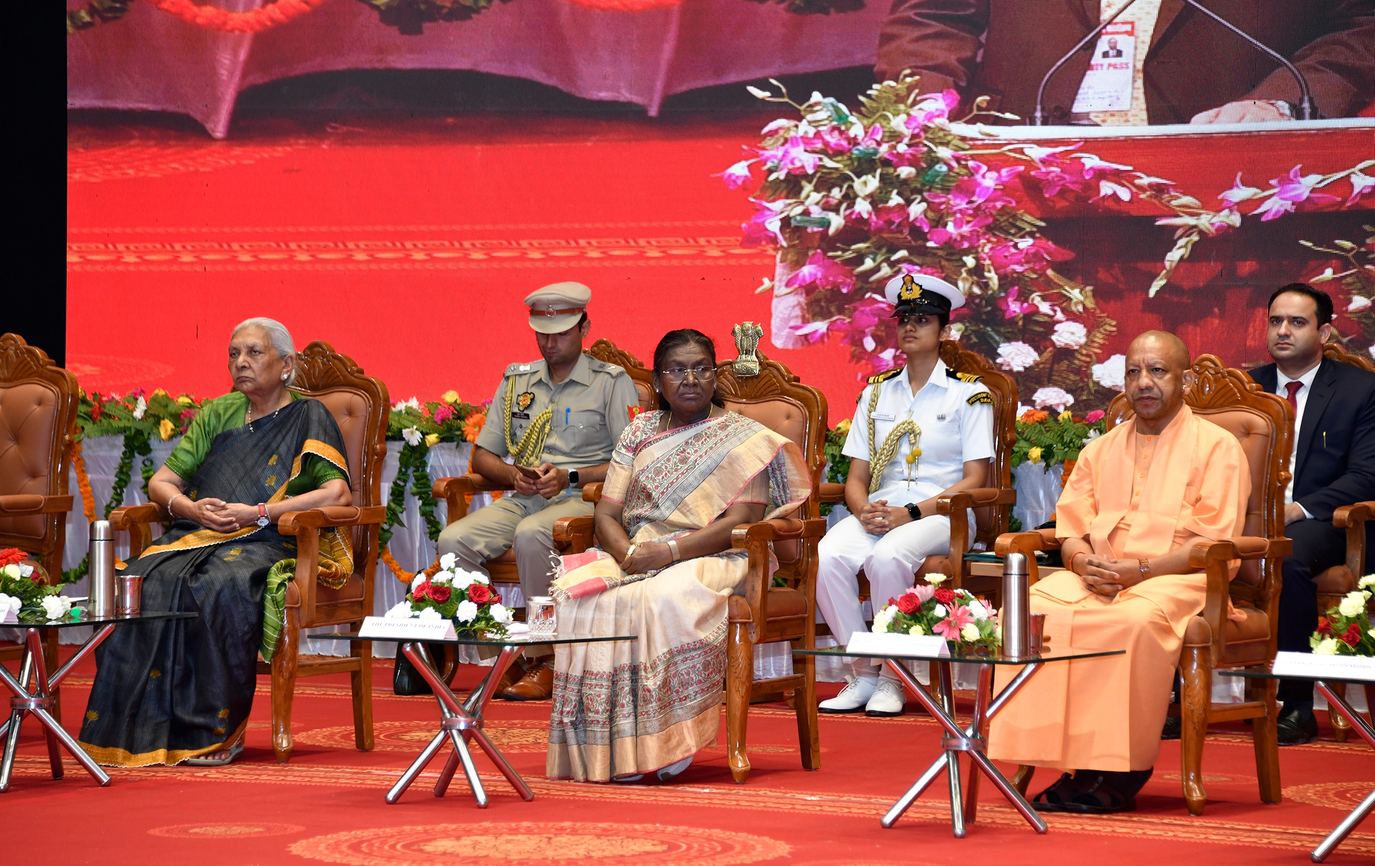
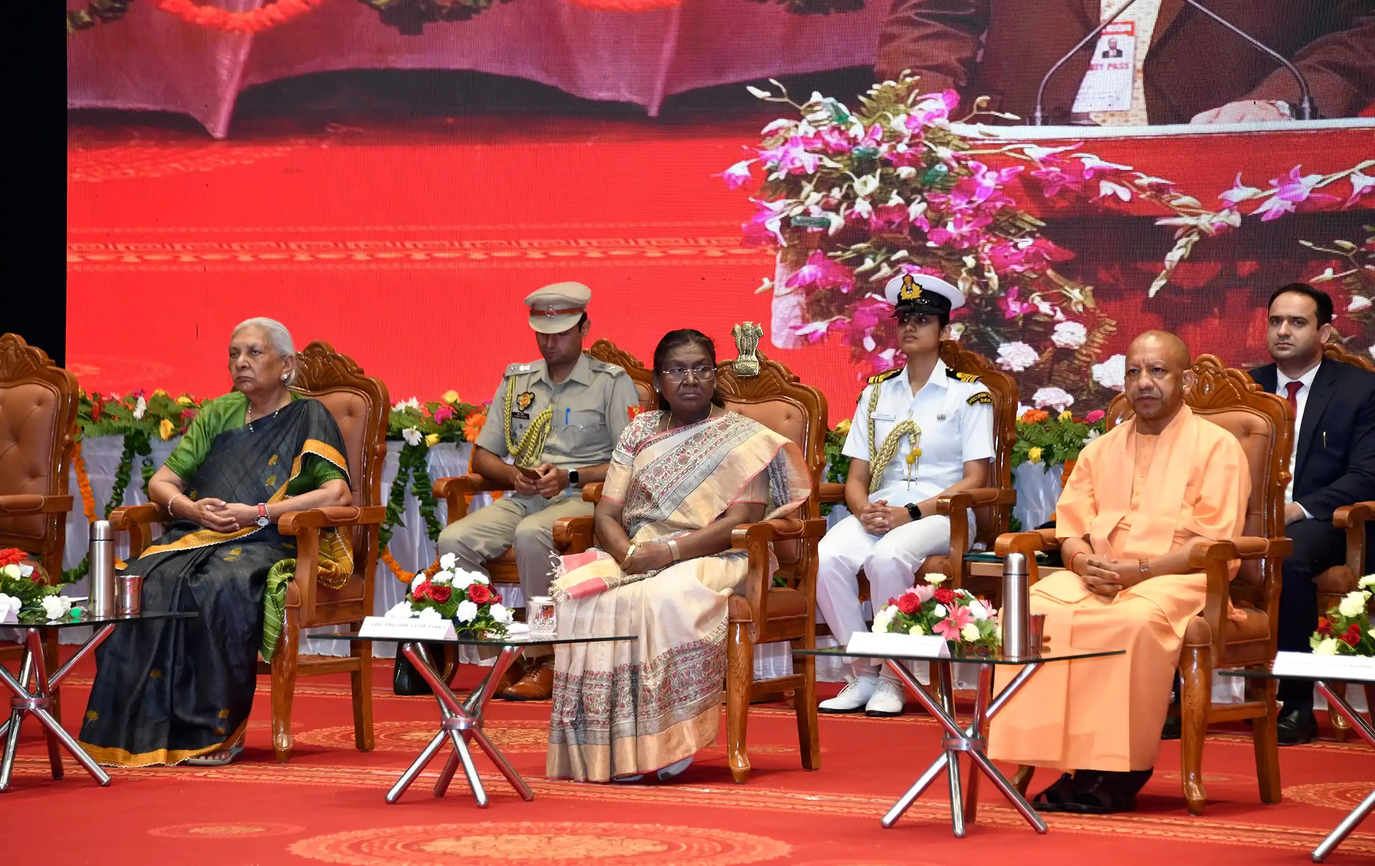
optimization

diff --git a/src/components/imageCarousel.tsx b/src/components/imageCarousel.tsx
@@ -9,7 +9,7 @@ export default function ImageCarousel() {
   const images = [
     { src: "/university.webp", alt: "Aerial view of the university campus" },
     { src: "/yogiJi.webp", alt: "Yogi Adityanath giving a speech" },
-    { src: "/guruji.jpg", alt: "Sansthapaks of MGUG" },
+    { src: "/guruji.webp", alt: "Sansthapaks of MGUG" },
     { src: "/studentsInALab.webp", alt: "Students in a Lab" },
     { src: "/VCGivingSpeech.webp", alt: "Vice Chancellor giving a speech" },
     { src: "/inaugration.webp", alt: "Presidential visit at MGUG" },

diff --git a/src/pages/Students/CampusLife/differentlyAbled.tsx b/src/pages/Students/CampusLife/differentlyAbled.tsx
@@ -18,7 +18,7 @@ const DifferentlyAbledPage = () => {
             {/* Image Section */}
             <div className="w-full h-64 sm:h-80 md:h-96 rounded-xl shadow-lg overflow-hidden mb-10">
               <img
-                src="/differentlyAbled.jpeg"
+                src="/differentlyAbled.webp"
                 alt="Differetnly Abled"
                 className="w-full h-full object-cover"
               />

diff --git a/src/pages/Students/CampusLife/hospital.tsx b/src/pages/Students/CampusLife/hospital.tsx
@@ -18,7 +18,7 @@ const HospitalPage = () => {
             {/* Image Section */}
             <div className="w-full h-64 sm:h-80 md:h-96 rounded-xl shadow-lg overflow-hidden mb-10">
               <img
-                src="/hospital.jpg"
+                src="/hospital.webp"
                 alt={content.pageTitle[language]}
                 className="w-full h-full object-cover"
               />

diff --git a/src/pages/Students/CampusLife/ambulance.tsx b/src/pages/Students/CampusLife/ambulance.tsx
@@ -18,7 +18,7 @@ const AmbulancePage = () => {
             {/* Image Section */}
             <div className="w-full h-64 sm:h-80 md:h-96 rounded-xl shadow-lg overflow-hidden mb-10">
               <img
-                src="/ambulance.jpg"
+                src="/ambulance.webp"
                 alt="ambulance"
                 className="w-full h-full object-cover"
               />

diff --git a/src/utils/leadershipData.ts b/src/utils/leadershipData.ts
@@ -108,7 +108,7 @@ export const administrationData: Administration = {
       designation: "Chief Proctor",
       university: "Mahayogi Gorakhnath University Gorakhpur",
     },
-    image: "/admin/proctor.png",
+    image: "/admin/proctor.webp",
     email: "chief.proctor@mgug.ac.in",
   },
   deanAcademics: {
